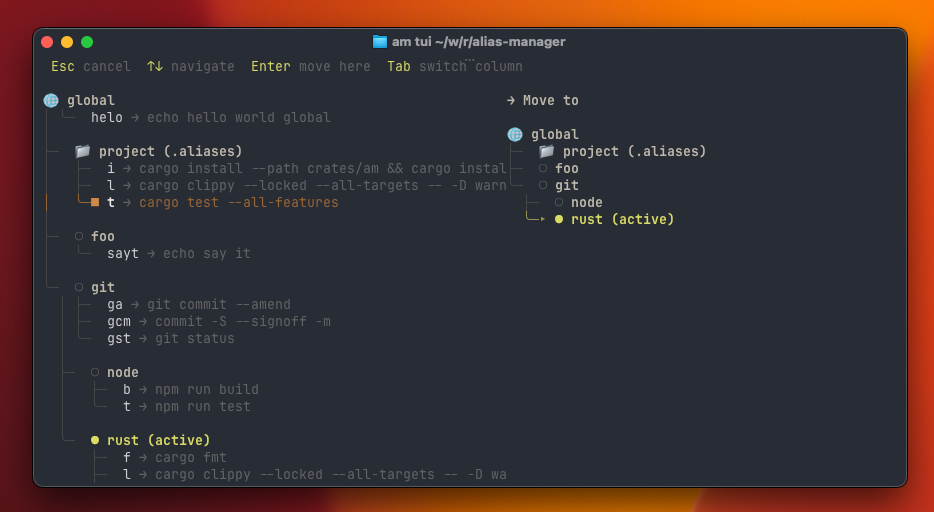
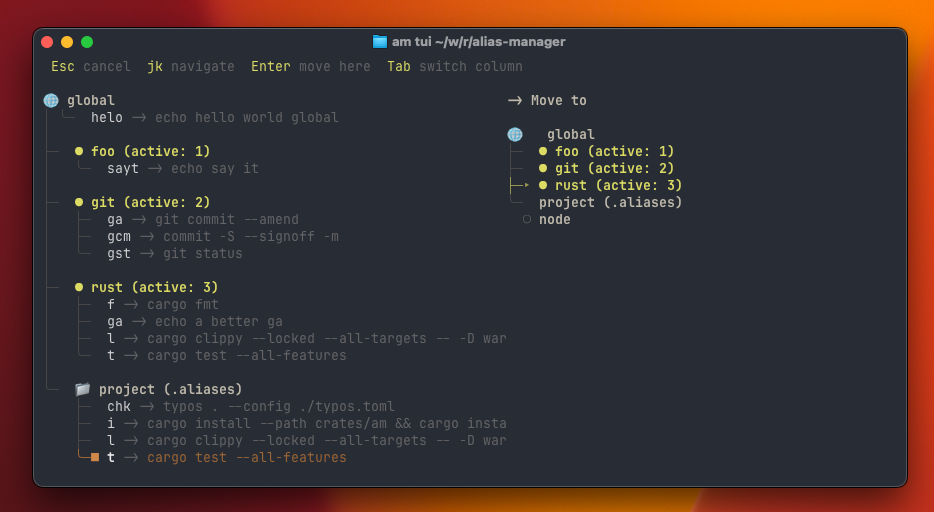
fix: little ajustments on the right col selection highlighing in the move mode + screenshot updates

diff --git a/crates/am-tui/src/view.rs b/crates/am-tui/src/view.rs
@@ -90,7 +90,11 @@ fn render_right_column(frame: &mut Frame, model: &TuiModel, area: Rect) {
 
     for (i, node) in model.dest_tree.iter().enumerate() {
         let is_cursor = i == model.dest_cursor && model.active_column == Column::Right;
-        let marker = if is_cursor { "| " } else { "  " };
+        let marker = if is_cursor {
+            MARKER_CURSOR
+        } else {
+            MARKER_NONE
+        };
         let conn = if is_cursor {
             TREE_CONNECTOR_ACTIVE
         } else {
@@ -102,7 +106,7 @@ fn render_right_column(frame: &mut Frame, model: &TuiModel, area: Rect) {
                 let label_color = if is_cursor { GOLD } else { HEADER_DEFAULT };
                 lines.push(Line::from(vec![
                     Span::styled(
-                        format!("{}{marker}", node.prefix),
+                        format!("{}{ICON_GLOBAL}{marker}", node.prefix),
                         Style::default().fg(conn),
                     ),
                     Span::styled("global", Style::default().fg(label_color).bold()),
